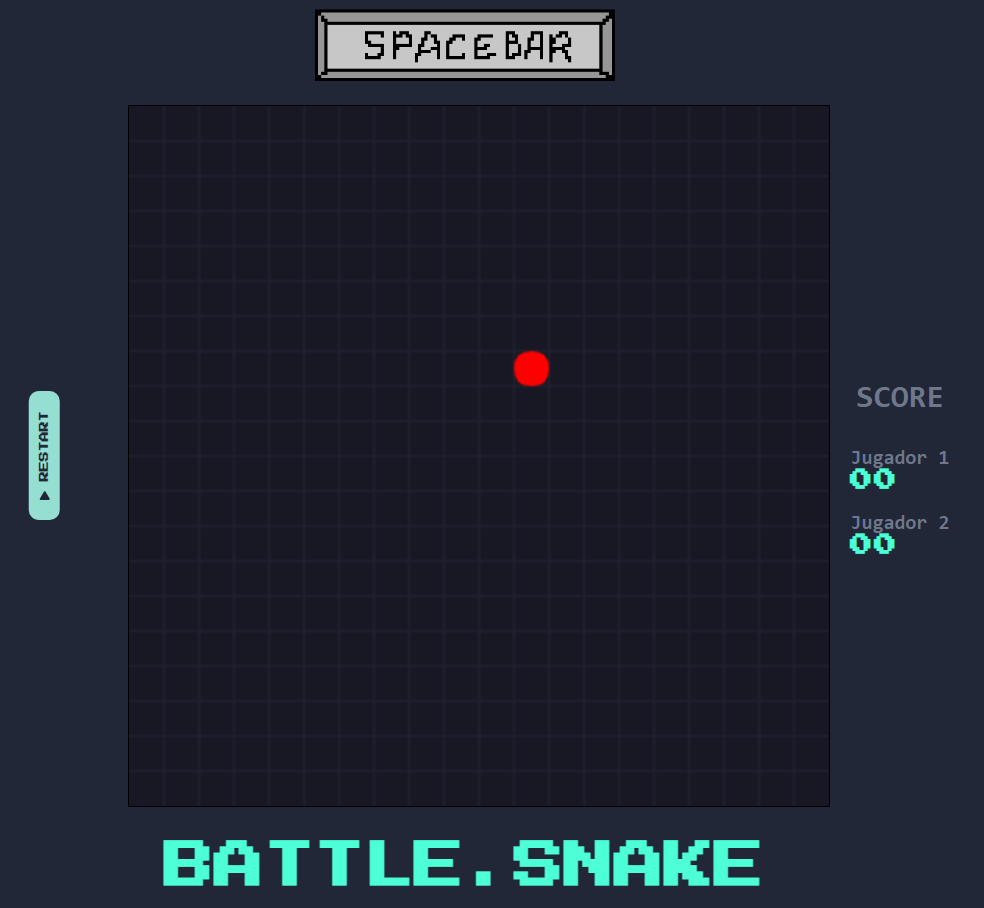
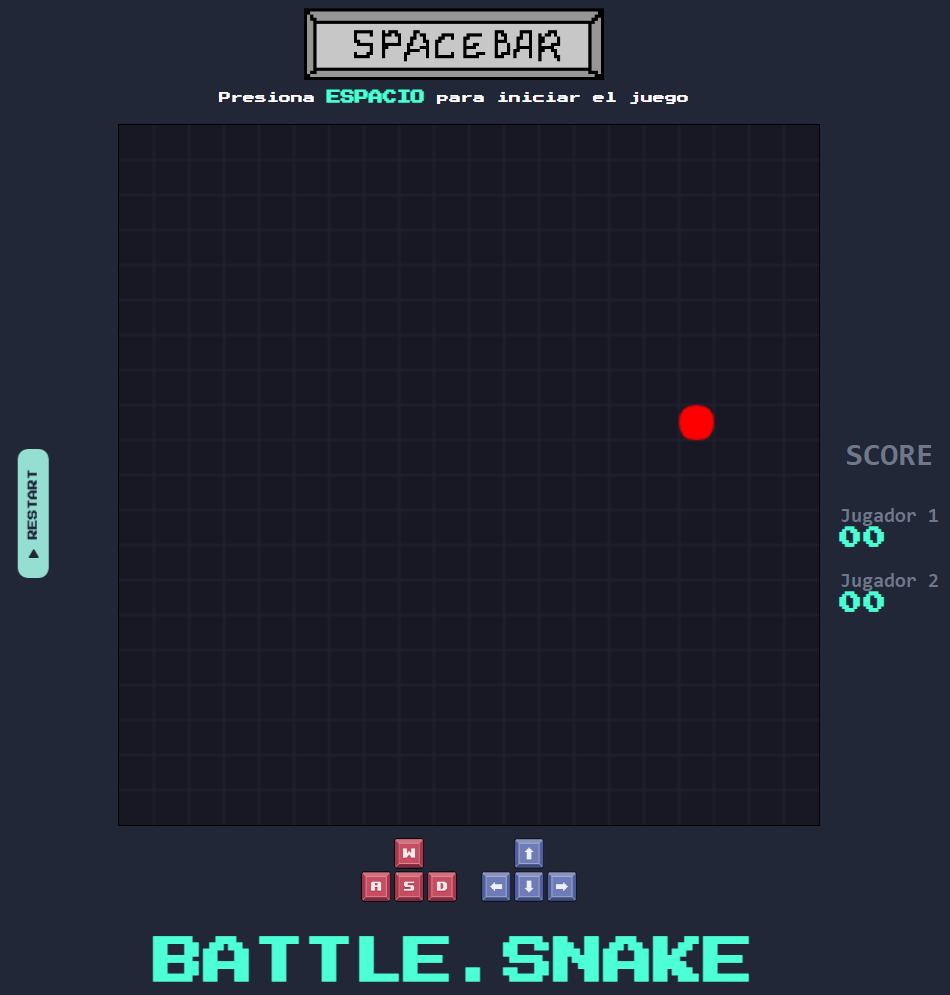
estilo y poco mas

diff --git a/games/snake_battle/styles.css b/games/snake_battle/styles.css
@@ -7,7 +7,8 @@ body {
     display: flex;
     justify-content: center;
     align-items: center;
-    height: 100vh; /* Asegura que el contenido se mantenga dentro de la ventana */
+    height: 104vh; 
+    overflow: hidden;/* Asegura que el contenido se mantenga dentro de la ventana */
     margin: 0;
 }
 
@@ -175,12 +176,6 @@ body {
     gap: 10px; /* Espacio entre la flecha y la imagen */
 }
 
-/* Flecha que apunta directamente a la imagen */
-.spacebar-container .arrow {
-    font-size: 24px;
-    color: #4cffd7;
-    animation: bounce 1s infinite; /* Animación para que la flecha se mueva */
-}
 
 /* Imagen de la barra espaciadora */
 #spacebar-instruction {
@@ -201,14 +196,4 @@ body {
 .spacebar-text b {
     color: #4cffd7;
     font-size: 14px;
-}
-
-/* Animación para la flecha */
-@keyframes bounce {
-    0%, 100% {
-        transform: translateY(0);
-    }
-    50% {
-        transform: translateY(-10px);
-    }
 }

diff --git a/games/snake_battle/index.html b/games/snake_battle/index.html
@@ -19,10 +19,6 @@
         <!-- Contenedor principal para la flecha e imagen -->
         <div class="top-center">
             <div class="spacebar-container">
-                <!-- Flecha -->
-                <div class="arrow">
-                    <i class="fas fa-arrow-down"></i>
-                </div>
                 <!-- Imagen de la barra espaciadora -->
                 <img id="spacebar-instruction" src="images/spacebar.png" alt="Press Space to Start" />
             </div>

diff --git a/styles.css b/styles.css
@@ -2,7 +2,7 @@
 body {
     font-family: 'Press Start 2P', cursive;
     background-color: #000;
-    color: #fff;
+    color: #fffb00;
     text-align: center;
     margin: 0;
     padding: 0;
@@ -13,7 +13,7 @@ body {
     max-width: 90%;
     margin: 0 auto;
     padding: 20px;
-    border: 5px solid #fff;
+    border: 5px solid #ffcc00;
     background-color: #222;
     box-shadow: 0 0 10px rgba(255, 255, 255, 0.5);
 }
